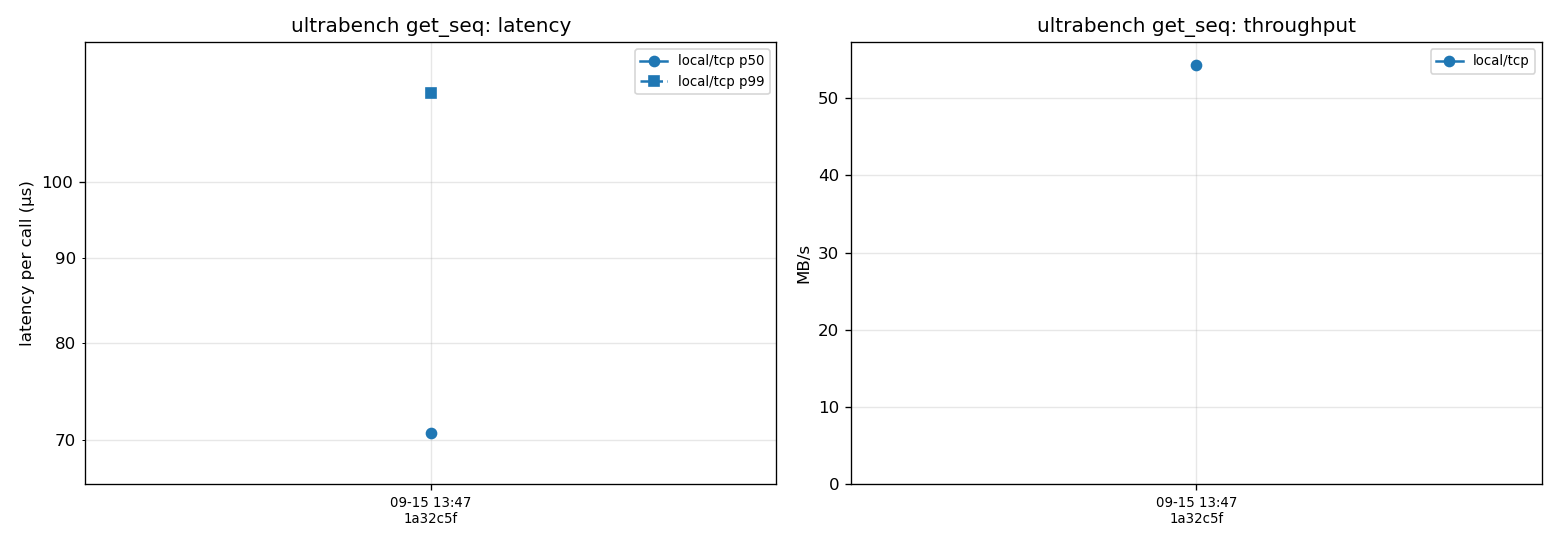
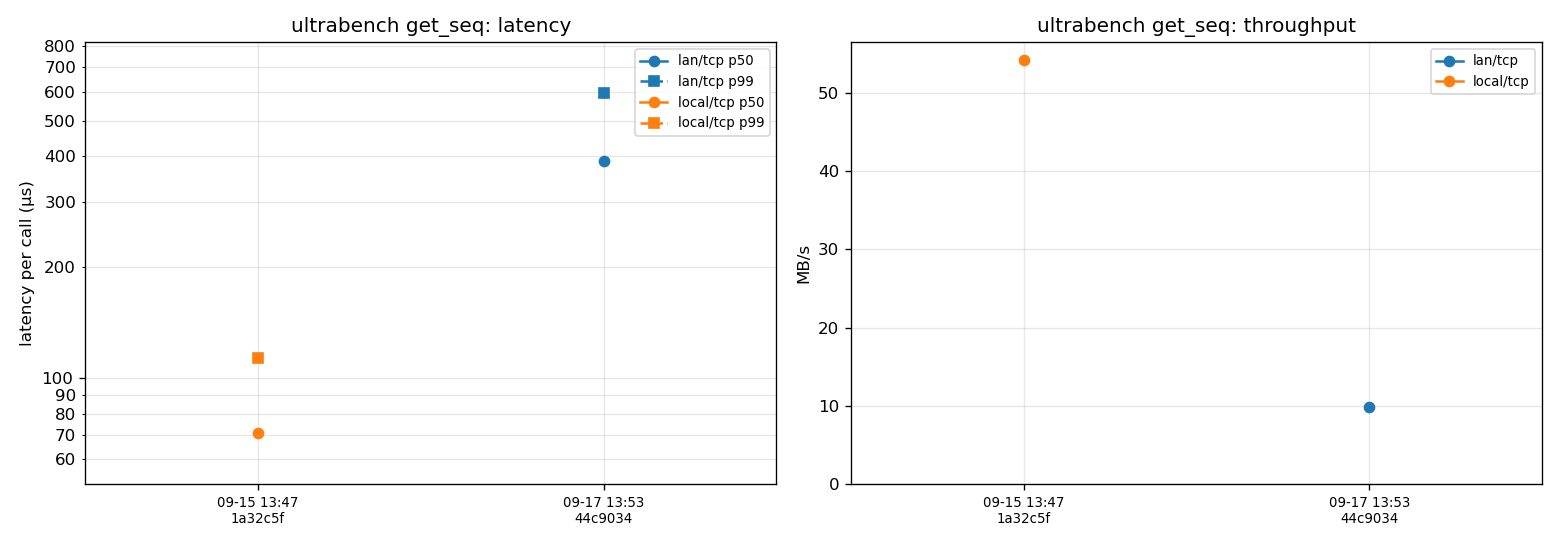
Day 4 results: first lan run, Mac to screwdriver over a direct cable
ultrabench on the Mac against memsrv.service on screwdriver (deployed with
deploy/push.sh at 44c9034), direct Gigabit link, 65536 calls per mode:
p50 350-397 us, p99 389-594 us, ~10 MB/s. Throughput is capped by one
page per synchronous round trip, latency by the link (USB adapter,
interrupt coalescing), not by ultrabench or memsrv.

Plots regenerated with local and lan series. decisions.md records the
numbers and their reading; CLAUDE.md ticks the deploy items, marks lan
done where tb still waits for the Thunderbolt cable, and adds Status.

diff --git a/CLAUDE.md b/CLAUDE.md
@@ -192,6 +192,17 @@ location and unit choices in decisions.
 Open: merge `day3`; CI still not run on GitHub (no remote); TB hardware
 pre-check on both hosts still pending.
 
+
+**2026-09-17 — Day 4: `lan` measured; `tb` waits for the Thunderbolt cable.**
+Shipped: `deploy/push.sh` (linux/amd64 build stamped with the commit, rsync to
+`/opt/ultramem`, role b installs and restarts `memsrv.service`);
+`deploy/memsrv.service`; `env/lan` (Mac A, screwdriver B, direct cable, static
+`10.97.0.1`/`.2`); `env/hosts.md`; rename far* → ultra* (wire magic "umem").
+First `lan` results at 44c9034: p50 350–397 µs, p99 389–594 µs, ~10 MB/s,
+capped by one page per synchronous round trip (see decisions).
+Open: Thunderbolt cable → `thunderbolt0`, `env/tb`, `tb` run. Host steps run
+from iTerm: the VS Code Claude process has no Local Network permission and
+can't reach the LAN.
 ---
 
 ## 8. Three-week plan — 15 sessions × 3–4 h
@@ -309,20 +320,20 @@ Goal: same command runs on `local`, `lan`, `tb`.
 
 `deploy/`
 
-- [ ] `push.sh <host> <role>`: `CGO_ENABLED=0` build, rsync to `/opt/ultramem`, install unit, restart
-- [ ] `memsrv.service` (Restart=always, `LimitMEMLOCK=infinity`)
-- [ ] `env/lan/`, `env/tb/` configs (addresses, interface, MTU, size)
+- [x] `push.sh <host> <role>`: `CGO_ENABLED=0` build, rsync to `/opt/ultramem`, install unit, restart
+- [x] `memsrv.service` (Restart=always, `LimitMEMLOCK=infinity`)
+- [ ] `env/lan/`, `env/tb/` configs (addresses, interface, MTU, size): `lan` done; `tb` waits for the cable
 
 Hosts (show commands before running)
 
 - [ ] `modprobe thunderbolt-net` on one host; confirm `thunderbolt0` on both
 - [ ] `ip link set thunderbolt0 mtu 65520 up` both sides; static IPs from `env/tb`
-- [ ] Record kernel, controller, MTU actually accepted in `env/tb/README.md`
+- [ ] Record kernel, controller, MTU actually accepted in `env/tb/README.md`: screwdriver's kernel and controller are in `env/hosts.md`; MTU needs the cable
 
 Verify
 
-- [ ] ultrabench all modes on `lan` and `tb`; commit results
-- [ ] Numbers into `docs/decisions.md`: RTT and MB/s per env
+- [ ] ultrabench all modes on `lan` and `tb`; commit results: `lan` done at 44c9034; `tb` waits for the cable
+- [ ] Numbers into `docs/decisions.md`: RTT and MB/s per env: `lan` done
 
 Close
 

diff --git a/docs/decisions.md b/docs/decisions.md
@@ -85,3 +85,34 @@ veth in the Lima VM, a baseline for later versions, not a transport number):
 
 Sequential and random gets are indistinguishable, as expected with no pager or
 prefetch in the path yet: every call is one synchronous TCP round trip.
+
+## 2026-09-17 — first `lan` results: the Mac and screwdriver over a direct cable
+
+ultrabench on the Mac (A) against `memsrv.service` on screwdriver (B), deployed
+with `deploy/push.sh` at 44c9034. Direct Gigabit cable (Mac side: Belkin USB-C
+adapter), static `10.97.0.1`/`10.97.0.2`, MTU 1500, 65536 calls per mode. The
+Mac is only the client here; memsrv runs on Linux.
+
+| mode | p50 µs | p99 µs | max µs | MB/s |
+|---|---|---|---|---|
+| rtt | 349.9 | 389.0 | 3248 | — |
+| get_seq | 389.0 | 593.8 | 11601 | 9.9 |
+| get_rand | 396.6 | 446.5 | 11753 | 10.0 |
+| put_seq | 367.7 | 403.0 | 14290 | 10.6 |
+
+- **Latency is the link, not the code.** A loaded round trip is ~350 µs. Idle
+  ICMP ping is slower (avg 1.5 ms Mac → screwdriver, 1.1 ms back) because NICs
+  and CPUs sleep between packets 200 ms apart, so ping is not a floor for this
+  link. The likely cost is the USB adapter and interrupt coalescing: 4 KB at
+  1 Gb/s is only ~33 µs, about the gap between `rtt` and the page-carrying
+  modes (+18–47 µs at p50).
+- **Throughput is the protocol.** One page per synchronous round trip caps at
+  4 KB / RTT ≈ 10 MB/s, a tenth of what the wire carries. Pipelining or
+  batching would move it; not before a measurement shows it is the bottleneck
+  for the pager (§7).
+- **Tails:** max 11–14 ms in the page modes are single events among 65536
+  calls. `get_seq`'s p99 above `get_rand`'s is not an access-pattern effect
+  (nothing caches yet); unexplained for now, to watch in repeats.
+- **Against `local`** (1a32c5f, veth in the Lima VM): ~5× the latency and
+  ~1/5 the throughput.
+- The first 1000-call smoke run (p50 478 µs) was dropped: too short to warm up.
